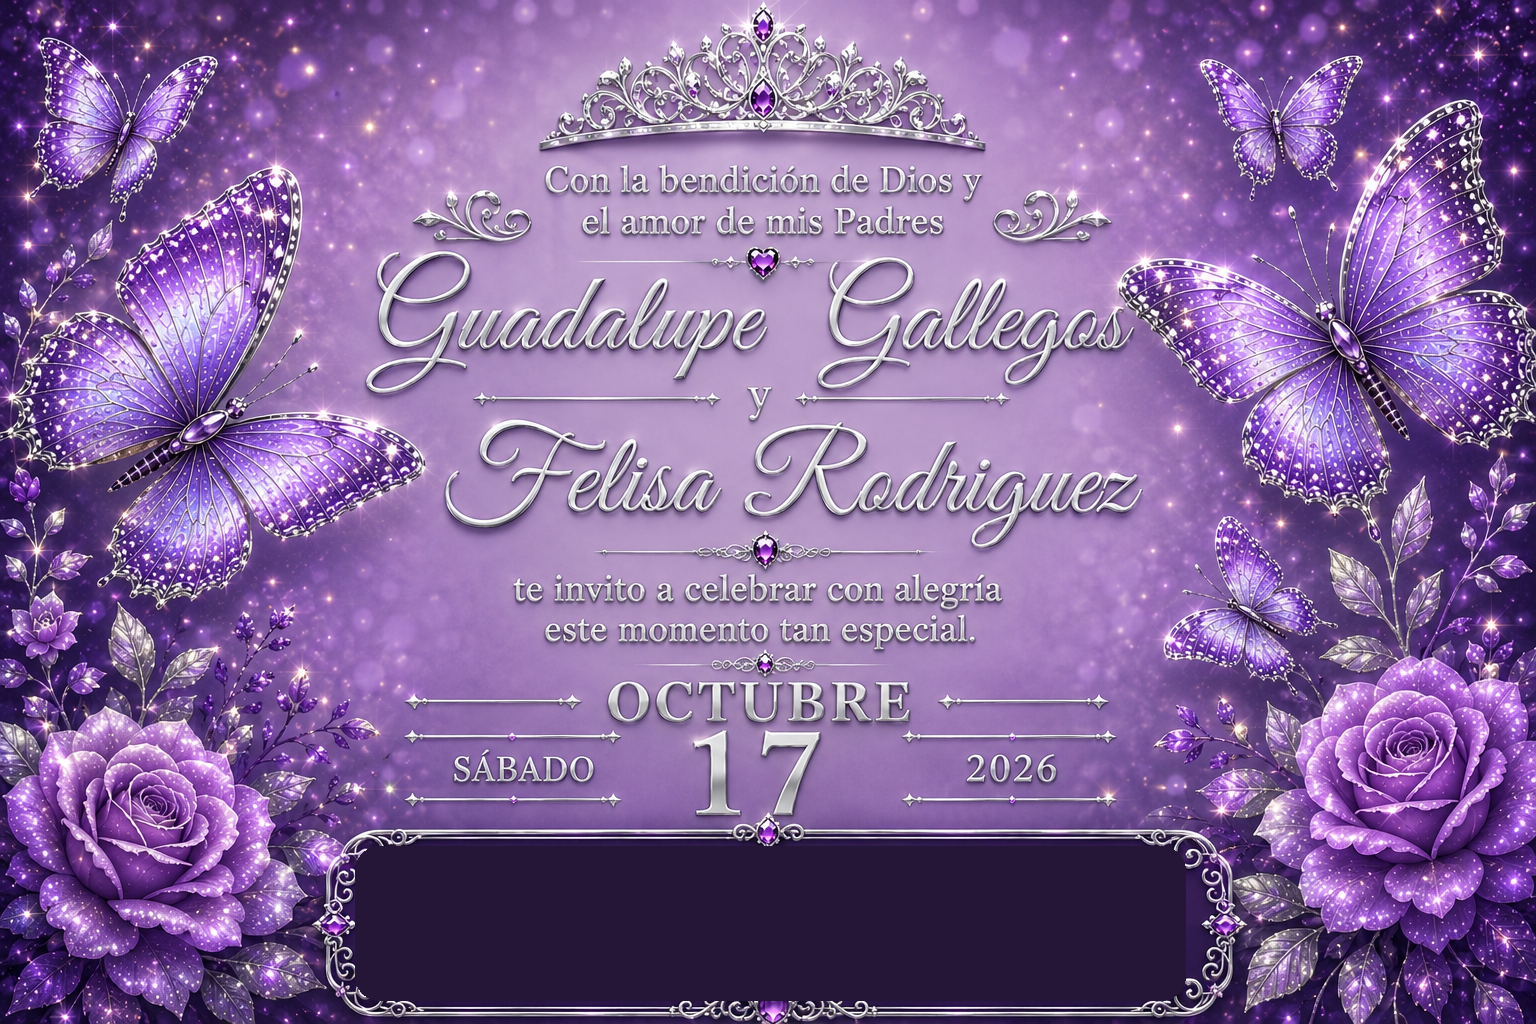
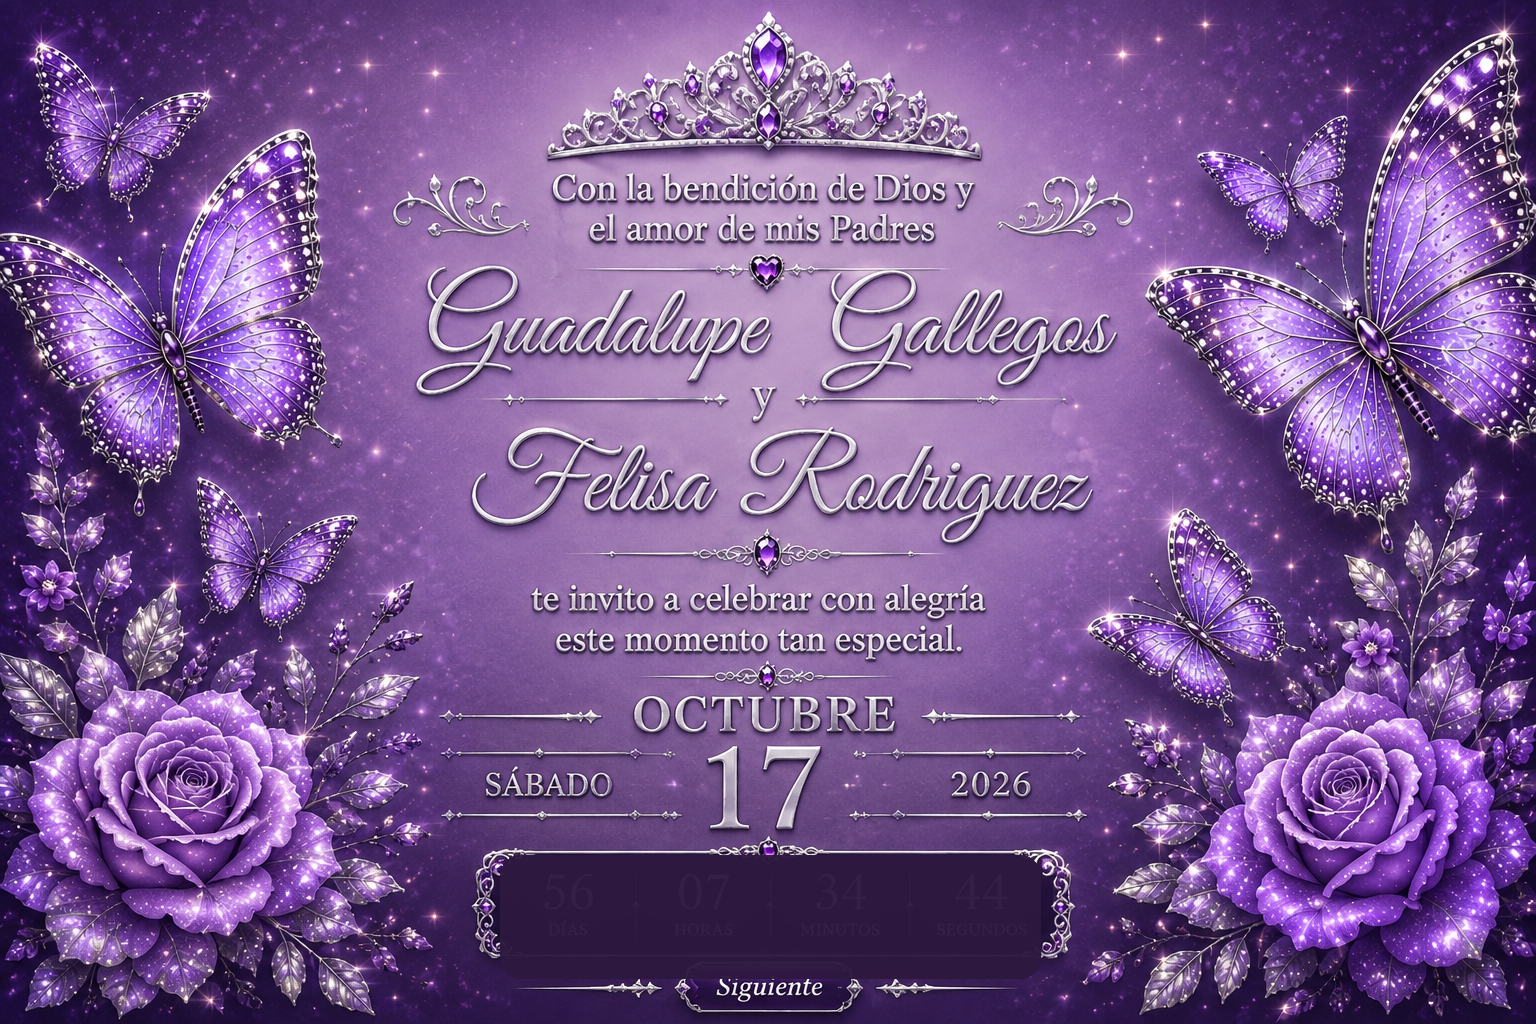
Add files via upload

diff --git a/index.html b/index.html
@@ -29,15 +29,15 @@ transition:transform 1.35s cubic-bezier(.2,.75,.2,1)}
 /* SLIDE 4 */
 #slide4{align-items:center;justify-content:center;background:#180d25}
 #slide4 .bg{position:absolute;inset:0;width:100%;height:100%;object-fit:cover;object-position:center}
-.countdown{position:absolute;left:50%;top:88%;transform:translate(-50%,-50%);
-width:min(50vw,760px);min-width:420px;padding:22px 34px 18px;border:2px solid rgba(215,215,225,.9);
-border-radius:28px;background:rgba(37,21,54,.98);box-shadow:0 0 28px rgba(219,167,61,.25);
+.countdown{position:absolute;left:50%;top:84%;transform:translate(-50%,-50%);
+width:min(42vw,620px);min-width:330px;padding:12px 18px 10px;border:2px solid rgba(224,180,75,.9);
+border-radius:28px;background:rgba(31,16,42,.92);box-shadow:0 0 28px rgba(219,167,61,.25);
 text-align:center;color:#fff}
-.label{color:#d9d9e2;letter-spacing:4px;font-size:clamp(14px,1.5vw,22px);margin-bottom:8px}
+.label{color:#e2e2ea;letter-spacing:3px;font-size:clamp(12px,1.2vw,18px);margin-bottom:5px}
 .units{display:grid;grid-template-columns:repeat(4,1fr);gap:10px}
-.num{font-size:clamp(34px,4.5vw,68px);line-height:1;color:#fff;text-shadow:0 0 12px rgba(214,160,255,.7)}
-.unit{margin-top:8px;font-size:clamp(10px,1.1vw,17px);letter-spacing:1px;color:#eee4f5}
-.nav{position:absolute;z-index:999;left:50%;bottom:1.5%;transform:translateX(-50%);
+.num{font-size:clamp(24px,3.2vw,46px);line-height:1;color:#fff;text-shadow:0 0 12px rgba(214,160,255,.7)}
+.unit{margin-top:4px;font-size:clamp(9px,0.9vw,14px);letter-spacing:1px;color:#eee4f5}
+.nav{position:absolute;z-index:999;left:50%;bottom:1.2%;transform:translateX(-50%);
 border:1px solid #fff;border-radius:999px;padding:12px 30px;min-width:135px;
 background:rgba(75,35,95,.95);color:#fff;font-family:Arial,sans-serif;font-size:16px;
 font-weight:700;letter-spacing:1px;cursor:pointer;box-shadow:0 4px 18px rgba(0,0,0,.45)}
@@ -45,7 +45,7 @@ font-weight:700;letter-spacing:1px;cursor:pointer;box-shadow:0 4px 18px rgba(0,0
  .countdown{top:73%;width:88vw;min-width:0;padding:14px 10px 12px;border-radius:20px}
  .label{letter-spacing:2px;font-size:12px}.units{gap:3px}
  .num{font-size:clamp(24px,8vw,42px)}.unit{font-size:9px}
- .nav{bottom:3%;font-size:15px;padding:10px 25px;min-width:120px}
+ .nav{bottom:1.2%;font-size:14px;padding:9px 22px;min-width:110px}
 }
 </style>
 </head>
